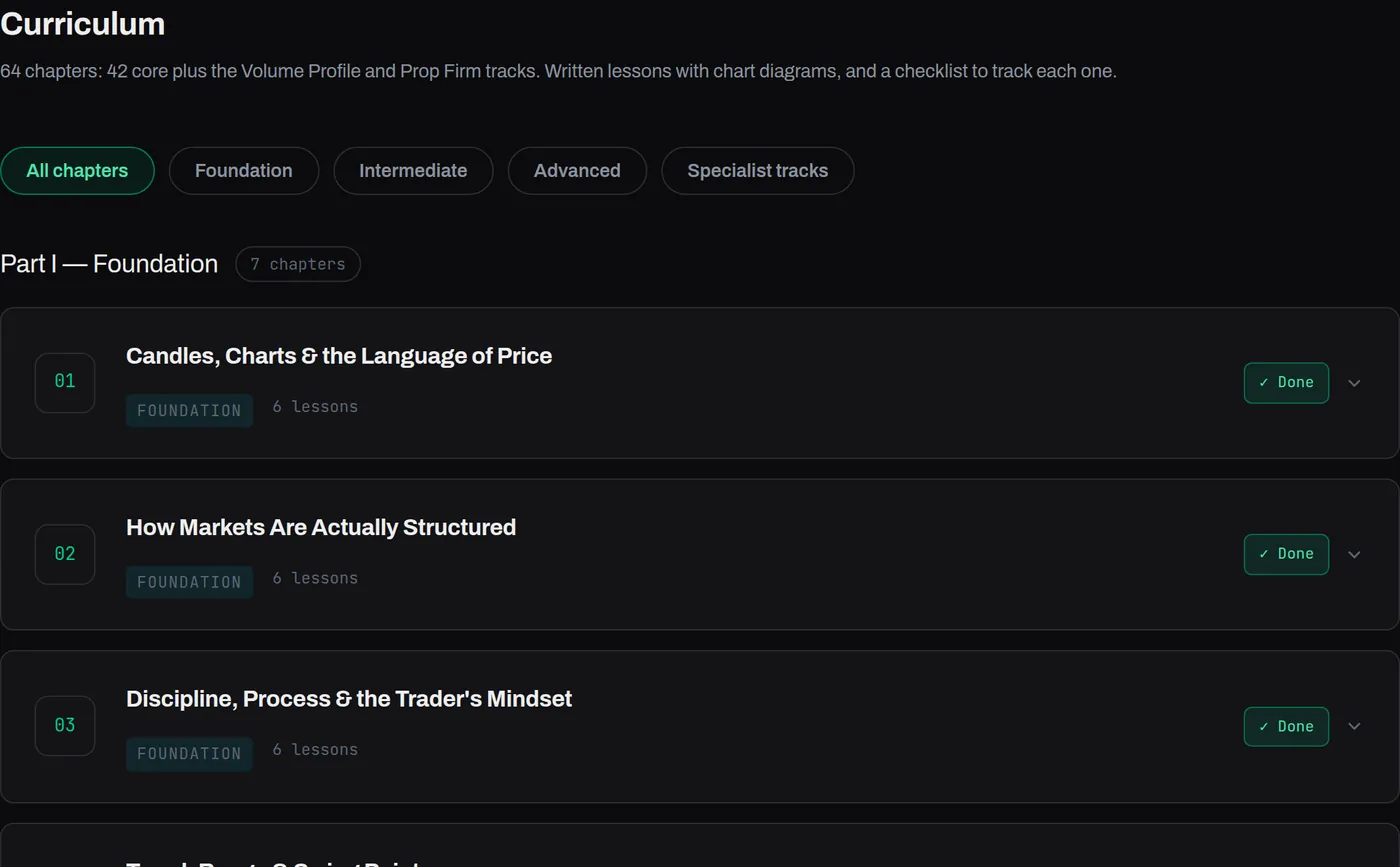
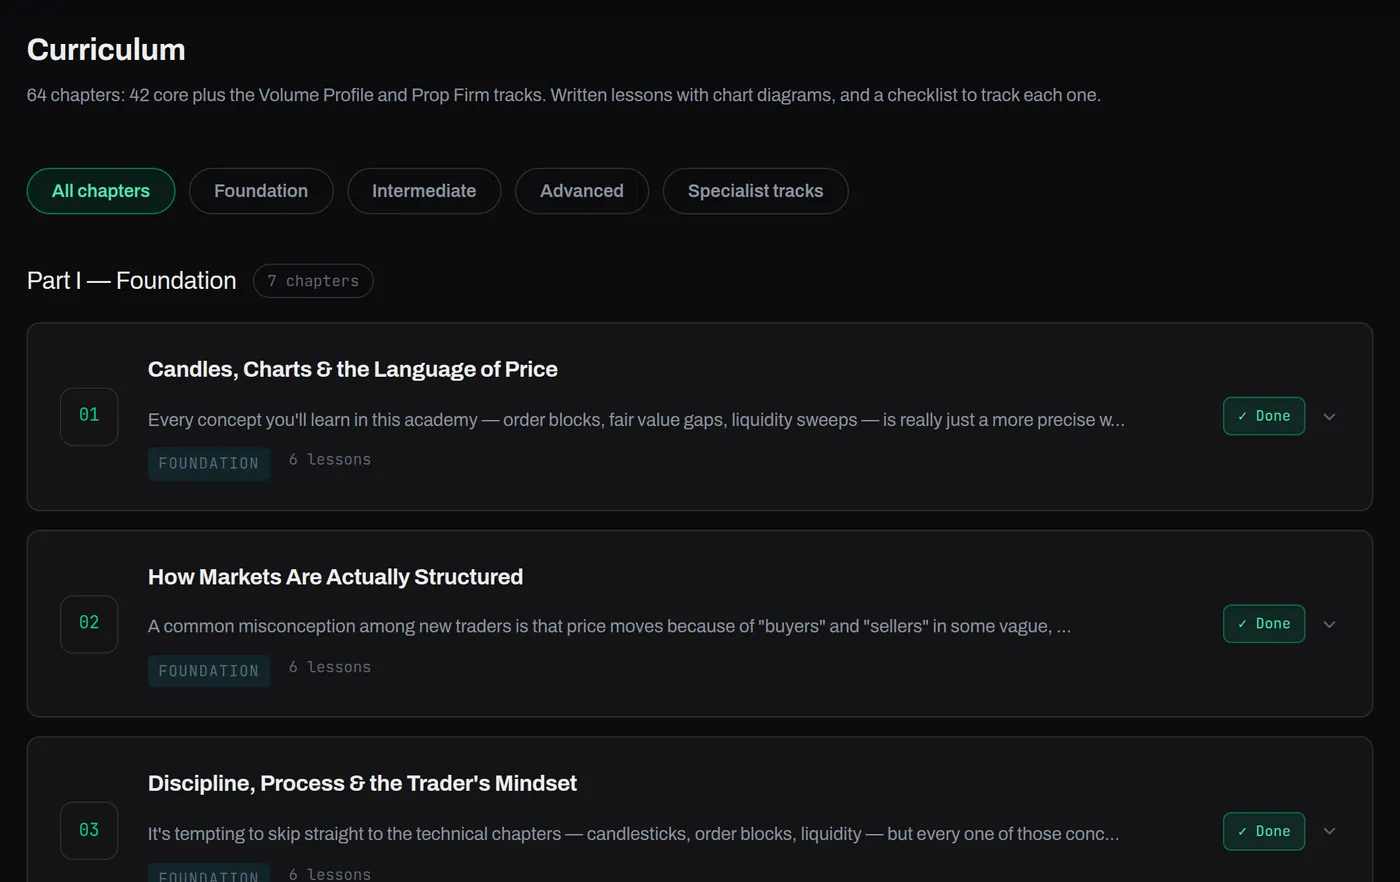
Curriculum + Global Monitor: re-crop captures with app background around content
Hero (1440 + 390), courses, continue, achievements, wire, markets, finmap,
risk and predict are re-captured 20px wider on every side (16px top on
phone) and cut at the next empty background row instead of mid-card.
Overlay boxes remapped from the old crop to the new one (checked: each box
stays on the same element). Reader and mobile kept: already had margins.

diff --git a/features/global-monitor.html b/features/global-monitor.html
@@ -113,7 +113,7 @@
 <figure class="gv-term solo" data-fp-play>
 <div class="gv-term-bar"><span class="gv-dot"></span><b>Global Monitor · Map</b></div>
 <div class="gv-term-body fp-pad">
-<div class="gv-chart"><picture><source media="(max-width:600px)" srcset="/assets/images/global-monitor/hero-390.webp" width="740" height="1000"><img src="/assets/images/global-monitor/hero-1440.webp" width="1400" height="867" fetchpriority="high" decoding="async" alt="The Global Monitor map tab: world map with event markers, event categories, an events list, the most active places and the tension index."></picture></div>
+<div class="gv-chart"><picture><source media="(max-width:600px)" srcset="/assets/images/global-monitor/hero-390.webp" width="740" height="1442"><img src="/assets/images/global-monitor/hero-1440.webp" width="1400" height="882" fetchpriority="high" decoding="async" alt="The Global Monitor map tab: world map with event markers, event categories, an events list, the most active places and the tension index."></picture></div>
 </div>
 <figcaption class="fg-cap">The events map, with most active places and the tension index.</figcaption>
 </figure>
@@ -123,11 +123,11 @@
 </header>
 <div class="container">
 <section class="ft-section sx" id="whats-on-the-page"><div class="ft-section-head ft-reveal"><h2>What’s on the Global Monitor</h2><p>Six tabs on one screen: Markets, Map, Wire, Risk, Briefing (a rule-based summary, not AI) and Streams.</p></div><nav class="sx-index" aria-label="Jump to a feature"><div><a href="#sx-f-wire" data-fp-ix="wire"><em>01</em>The Wire</a><a href="#sx-f-markets" data-fp-ix="markets"><em>02</em>Markets</a><a href="#sx-f-finmap" data-fp-ix="finmap"><em>03</em>Financial map</a><a href="#sx-f-risk" data-fp-ix="risk"><em>04</em>Risk</a><a href="#sx-f-predict" data-fp-ix="predict"><em>05</em>Prediction markets</a></div></nav><div class="sx-rows">
-<article class="sx-row" id="sx-f-wire" data-fp-row="wire"><div class="sx-frame fp-pad"><div class="sx-media" style="aspect-ratio:740/556;--ar:1.3309"><img src="/assets/images/global-monitor/wire.webp" width="740" height="556" loading="lazy" decoding="async" alt="The Wire: a search box, severity filter chips and a list of headlines with country tags and sources."><i class="sx-box" style="--x:1.7%;--y:6.1%;--bw:96.6%;--bh:4.9%;--n:1"></i><i class="sx-box chip" style="--x:1.7%;--y:12.2%;--bw:39.2%;--bh:3.8%;--n:2"></i></div><p class="sx-cap">The Wire headline feed.</p></div><div class="sx-copy"><span class="sx-n">01 / 05</span><h3>The Wire</h3><p class="sx-text">Headlines collected from third-party feeds, searchable by headline, country and source, so the context reaches you without twelve open tabs.</p><details class="sx-how"><summary>How it works</summary><p>Chips filter the feed by severity; the search box matches headlines, countries and sources.</p></details></div></article>
-<article class="sx-row flip" id="sx-f-markets" data-fp-row="markets"><div class="sx-frame fp-pad"><div class="sx-media" style="aspect-ratio:740/585;--ar:1.2650"><img src="/assets/images/global-monitor/markets.webp" width="740" height="585" loading="lazy" decoding="async" alt="Markets tab: risk tone, sector breadth, rotation leader, curve and volatility cards, then indices, futures, safe havens, forex, energy, defense stocks and crypto tables."><i class="sx-box" style="--x:1.7%;--y:5.8%;--bw:96.6%;--bh:17.2%;--n:1"></i></div><p class="sx-cap">Market signals and asset tables.</p></div><div class="sx-copy"><span class="sx-n">02 / 05</span><h3>Markets</h3><p class="sx-text">Market signals, then the instruments that set the tone, grouped on one screen.</p><details class="sx-how"><summary>How it works</summary><p>Risk tone, sector breadth, rotation leader, curve and volatility at the top; indices, futures, safe havens, FX, energy, defense stocks and crypto below. Sector rotation and movers follow.</p></details></div></article>
-<article class="sx-row" id="sx-f-finmap" data-fp-row="finmap"><div class="sx-frame fp-pad"><div class="sx-media" style="aspect-ratio:740/393;--ar:1.8830"><img src="/assets/images/global-monitor/finmap.webp" width="740" height="393" loading="lazy" decoding="async" alt="Financial map: a world map with gold rings on central banks and dots for market-stress stories."><i class="sx-scan"></i></div><p class="sx-cap">Financial map.</p></div><div class="sx-copy"><span class="sx-n">03 / 05</span><h3>Financial map</h3><p class="sx-text">Monetary policy and market-stress stories by country, with central banks marked, plus a financial newswire filtered by severity.</p><details class="sx-how"><summary>How it works</summary><p>Hover a central bank for its next high-impact release; hover a dot for the stories behind it.</p></details></div></article>
-<article class="sx-row flip" id="sx-f-risk" data-fp-row="risk"><div class="sx-frame fp-pad"><div class="sx-media" style="aspect-ratio:740/479;--ar:1.5449"><img src="/assets/images/global-monitor/risk.webp" width="740" height="479" loading="lazy" decoding="async" alt="Risk tab: DEFCON status with its five levels and a disease outbreaks list."><i class="sx-box" style="--x:1.7%;--y:59.2%;--bw:45.9%;--bh:9.8%;--n:1"></i></div><p class="sx-cap">DEFCON status and disease outbreaks.</p></div><div class="sx-copy"><span class="sx-n">04 / 05</span><h3>Risk</h3><p class="sx-text">DEFCON status, labelled on the page as a third-party estimate, beside disease outbreaks ranked by severity from WHO Disease Outbreak News.</p><details class="sx-how"><summary>How it works</summary><p>The page names the source under each panel.</p></details></div></article>
-<article class="sx-row" id="sx-f-predict" data-fp-row="predict"><div class="sx-frame fp-pad"><div class="sx-media" style="aspect-ratio:740/979;--ar:0.7559"><img src="/assets/images/global-monitor/predict.webp" width="740" height="979" loading="lazy" decoding="async" alt="Trending prediction markets with a search box, each market listing its outcomes."><i class="sx-box" style="--x:3.4%;--y:10.8%;--bw:93.2%;--bh:5.6%;--n:1"></i></div><p class="sx-cap">Prediction markets.</p></div><div class="sx-copy"><span class="sx-n">05 / 05</span><h3>Prediction markets</h3><p class="sx-text">Trending prediction markets, searchable, as another read on what the crowd is weighing. Prices are the crowd’s odds, not forecasts.</p><details class="sx-how"><summary>How it works</summary><p>Ranked by 24h volume, via Polymarket. Shown for context only; not a forecast.</p></details></div></article>
+<article class="sx-row" id="sx-f-wire" data-fp-row="wire"><div class="sx-frame fp-pad"><div class="sx-media" style="aspect-ratio:740/563;--ar:1.3144"><img src="/assets/images/global-monitor/wire.webp" width="740" height="563" loading="lazy" decoding="async" alt="The Wire: a search box, severity filter chips and a list of headlines with country tags and sources."><i class="sx-box" style="--x:3.5%;--y:8.3%;--bw:92.9%;--bh:4.7%;--n:1"></i><i class="sx-box chip" style="--x:3.5%;--y:14.1%;--bw:37.7%;--bh:3.6%;--n:2"></i></div><p class="sx-cap">The Wire headline feed.</p></div><div class="sx-copy"><span class="sx-n">01 / 05</span><h3>The Wire</h3><p class="sx-text">Headlines collected from third-party feeds, searchable by headline, country and source, so the context reaches you without twelve open tabs.</p><details class="sx-how"><summary>How it works</summary><p>Chips filter the feed by severity; the search box matches headlines, countries and sources.</p></details></div></article>
+<article class="sx-row flip" id="sx-f-markets" data-fp-row="markets"><div class="sx-frame fp-pad"><div class="sx-media" style="aspect-ratio:740/584;--ar:1.2671"><img src="/assets/images/global-monitor/markets.webp" width="740" height="584" loading="lazy" decoding="async" alt="Markets tab: risk tone, sector breadth, rotation leader, curve and volatility cards, then indices, futures, safe havens, forex, energy, defense stocks and crypto tables."><i class="sx-box" style="--x:3.5%;--y:8.0%;--bw:92.9%;--bh:16.6%;--n:1"></i></div><p class="sx-cap">Market signals and asset tables.</p></div><div class="sx-copy"><span class="sx-n">02 / 05</span><h3>Markets</h3><p class="sx-text">Market signals, then the instruments that set the tone, grouped on one screen.</p><details class="sx-how"><summary>How it works</summary><p>Risk tone, sector breadth, rotation leader, curve and volatility at the top; indices, futures, safe havens, FX, energy, defense stocks and crypto below. Sector rotation and movers follow.</p></details></div></article>
+<article class="sx-row" id="sx-f-finmap" data-fp-row="finmap"><div class="sx-frame fp-pad"><div class="sx-media" style="aspect-ratio:740/404;--ar:1.8317"><img src="/assets/images/global-monitor/finmap.webp" width="740" height="404" loading="lazy" decoding="async" alt="Financial map: a world map with gold rings on central banks and dots for market-stress stories."><i class="sx-scan"></i></div><p class="sx-cap">Financial map.</p></div><div class="sx-copy"><span class="sx-n">03 / 05</span><h3>Financial map</h3><p class="sx-text">Monetary policy and market-stress stories by country, with central banks marked, plus a financial newswire filtered by severity.</p><details class="sx-how"><summary>How it works</summary><p>Hover a central bank for its next high-impact release; hover a dot for the stories behind it.</p></details></div></article>
+<article class="sx-row flip" id="sx-f-risk" data-fp-row="risk"><div class="sx-frame fp-pad"><div class="sx-media" style="aspect-ratio:740/482;--ar:1.5353"><img src="/assets/images/global-monitor/risk.webp" width="740" height="482" loading="lazy" decoding="async" alt="Risk tab: DEFCON status with its five levels and a disease outbreaks list."><i class="sx-box" style="--x:3.5%;--y:59.5%;--bw:44.2%;--bh:9.4%;--n:1"></i></div><p class="sx-cap">DEFCON status and disease outbreaks.</p></div><div class="sx-copy"><span class="sx-n">04 / 05</span><h3>Risk</h3><p class="sx-text">DEFCON status, labelled on the page as a third-party estimate, beside disease outbreaks ranked by severity from WHO Disease Outbreak News.</p><details class="sx-how"><summary>How it works</summary><p>The page names the source under each panel.</p></details></div></article>
+<article class="sx-row" id="sx-f-predict" data-fp-row="predict"><div class="sx-frame fp-pad"><div class="sx-media" style="aspect-ratio:740/956;--ar:0.7741"><img src="/assets/images/global-monitor/predict.webp" width="740" height="956" loading="lazy" decoding="async" alt="Trending prediction markets with a search box, each market listing its outcomes."><i class="sx-box" style="--x:6.9%;--y:13.1%;--bw:86.3%;--bh:5.3%;--n:1"></i></div><p class="sx-cap">Prediction markets.</p></div><div class="sx-copy"><span class="sx-n">05 / 05</span><h3>Prediction markets</h3><p class="sx-text">Trending prediction markets, searchable, as another read on what the crowd is weighing. Prices are the crowd’s odds, not forecasts.</p><details class="sx-how"><summary>How it works</summary><p>Ranked by 24h volume, via Polymarket. Shown for context only; not a forecast.</p></details></div></article>
 </div></section>
 
 <section class="ft-section" id="routine">

diff --git a/features/curriculum.html b/features/curriculum.html
@@ -113,7 +113,7 @@
 <figure class="gv-term solo" data-fp-play>
 <div class="gv-term-bar"><span class="gv-dot"></span><b>Courses · Curriculum</b></div>
 <div class="gv-term-body fp-pad">
-<div class="gv-chart"><picture><source media="(max-width:600px)" srcset="/assets/images/curriculum/hero-390.webp" width="740" height="1000"><img src="/assets/images/curriculum/hero-1440.webp" width="1400" height="867" fetchpriority="high" decoding="async" alt="The Stryker courses page: level filters and the first Foundation chapters in order."></picture></div>
+<div class="gv-chart"><picture><source media="(max-width:600px)" srcset="/assets/images/curriculum/hero-390.webp" width="740" height="1442"><img src="/assets/images/curriculum/hero-1440.webp" width="1400" height="882" fetchpriority="high" decoding="async" alt="The Stryker courses page: level filters and the first Foundation chapters in order."></picture></div>
 </div>
 <figcaption class="fg-cap">The courses page, shown on a demo account.</figcaption>
 </figure>
@@ -123,10 +123,10 @@
 </header>
 <div class="container">
 <section class="ft-section sx" id="whats-on-the-page"><div class="ft-section-head ft-reveal"><h2>Inside the curriculum</h2><p>Chapters are ordered and tracked. The platform knows what you have finished and what to open next.</p></div><nav class="sx-index" aria-label="Jump to a feature"><div><a href="#sx-f-order" data-fp-ix="order"><em>01</em>Ordered chapters</a><a href="#sx-f-read" data-fp-ix="read"><em>02</em>Chapter reader</a><a href="#sx-f-progress" data-fp-ix="progress"><em>03</em>Progress</a><a href="#sx-f-badges" data-fp-ix="badges"><em>04</em>Achievements</a><a href="#sx-f-mobile" data-fp-ix="mobile"><em>05</em>Mobile</a></div></nav><div class="sx-rows">
-<article class="sx-row" id="sx-f-order" data-fp-row="order"><div class="sx-frame fp-pad"><div class="sx-media" style="aspect-ratio:740/600;--ar:1.2333"><img src="/assets/images/curriculum/courses.webp" width="740" height="600" loading="lazy" decoding="async" alt="Part II of the courses page: Intermediate chapters 08 to 13 listed in order, from Market Structure to Killzones."><i class="sx-box" style="--x:0.3%;--y:6.7%;--bw:99.4%;--bh:13.4%;--n:1"></i></div><p class="sx-cap">Intermediate chapters, in order.</p></div><div class="sx-copy"><span class="sx-n">01 / 05</span><h3>Ordered chapters</h3><p class="sx-text">Concepts build in sequence: liquidity before displacement, displacement before entries. Each chapter is written to build on the ones before it.</p><details class="sx-how"><summary>How it works</summary><p>Three levels (Foundation, Intermediate, Advanced) taken in order, plus specialist tracks. Every chapter is listed on the courses page.</p></details></div></article>
+<article class="sx-row" id="sx-f-order" data-fp-row="order"><div class="sx-frame fp-pad"><div class="sx-media" style="aspect-ratio:740/602;--ar:1.2292"><img src="/assets/images/curriculum/courses.webp" width="740" height="602" loading="lazy" decoding="async" alt="Part II of the courses page: Intermediate chapters 08 to 13 listed in order, from Market Structure to Killzones."><i class="sx-box" style="--x:2.2%;--y:8.8%;--bw:95.6%;--bh:12.8%;--n:1"></i></div><p class="sx-cap">Intermediate chapters, in order.</p></div><div class="sx-copy"><span class="sx-n">01 / 05</span><h3>Ordered chapters</h3><p class="sx-text">Concepts build in sequence: liquidity before displacement, displacement before entries. Each chapter is written to build on the ones before it.</p><details class="sx-how"><summary>How it works</summary><p>Three levels (Foundation, Intermediate, Advanced) taken in order, plus specialist tracks. Every chapter is listed on the courses page.</p></details></div></article>
 <article class="sx-row flip" id="sx-f-read" data-fp-row="read"><div class="sx-frame fp-pad"><div class="sx-media" style="aspect-ratio:740/774;--ar:0.9561"><img src="/assets/images/curriculum/reader.webp" width="740" height="774" loading="lazy" decoding="async" alt="Chapter 01 open in the reader: the chapter introduction, the Anatomy of a candlestick lesson and a candle diagram."><i class="sx-box" style="--x:2.3%;--y:27.4%;--bw:33%;--bh:3.6%;--n:1"></i><i class="sx-box" style="--x:2.3%;--y:47.4%;--bw:95.4%;--bh:52%;--n:2"></i></div><p class="sx-cap">Chapter 01 in the reader.</p></div><div class="sx-copy"><span class="sx-n">02 / 05</span><h3>Read a chapter</h3><p class="sx-text">Written lessons with chart diagrams. Each chapter ends where the next begins: liquidity, fair value gaps, order blocks, premium and discount, SMT divergence, killzones, session timing, Power of Three, and entry models that combine every prior concept.</p><details class="sx-how"><summary>How it works</summary><p>The curriculum is one connected framework for reading price action, not a playlist.</p></details></div></article>
-<article class="sx-row" id="sx-f-progress" data-fp-row="progress"><div class="sx-frame fp-pad"><div class="sx-media" style="aspect-ratio:740/440;--ar:1.6818"><img src="/assets/images/curriculum/continue.webp" width="740" height="440" loading="lazy" decoding="async" alt="The dashboard Continue learning panel with a Resume button on the next chapter and Review on finished ones."><i class="sx-box" style="--x:3%;--y:23.6%;--bw:94%;--bh:16.4%;--n:1"></i></div><p class="sx-cap">Continue learning, shown on a demo account.</p></div><div class="sx-copy"><span class="sx-n">03 / 05</span><h3>Progress tracking</h3><p class="sx-text">Every chapter you complete is saved to your account. The dashboard shows where you stopped, and one click resumes it.</p><details class="sx-how"><summary>How it works</summary><p>Per-chapter completion is stored on your account and shown on the dashboard, the courses page and achievements.</p></details></div></article>
-<article class="sx-row flip" id="sx-f-badges" data-fp-row="badges"><div class="sx-frame fp-pad"><div class="sx-media" style="aspect-ratio:740/482;--ar:1.5353"><img src="/assets/images/curriculum/achievements.webp" width="740" height="482" loading="lazy" decoding="async" alt="The achievements page: curriculum and lesson badges, some unlocked and some locked."><i class="sx-box" style="--x:1%;--y:6.4%;--bw:48.6%;--bh:9.2%;--n:1"></i></div><p class="sx-cap">Milestone badges, shown on a demo account.</p></div><div class="sx-copy"><span class="sx-n">04 / 05</span><h3>Achievements</h3><p class="sx-text">Milestones unlock badges as you move through the curriculum and use the platform, visible on your profile.</p><details class="sx-how"><summary>How it works</summary><p>Badges are awarded for milestones as your progress is saved.</p></details></div></article>
+<article class="sx-row" id="sx-f-progress" data-fp-row="progress"><div class="sx-frame fp-pad"><div class="sx-media" style="aspect-ratio:740/454;--ar:1.6300"><img src="/assets/images/curriculum/continue.webp" width="740" height="454" loading="lazy" decoding="async" alt="The dashboard Continue learning panel with a Resume button on the next chapter and Review on finished ones."><i class="sx-box" style="--x:5.9%;--y:26.5%;--bw:88.2%;--bh:14.9%;--n:1"></i></div><p class="sx-cap">Continue learning, shown on a demo account.</p></div><div class="sx-copy"><span class="sx-n">03 / 05</span><h3>Progress tracking</h3><p class="sx-text">Every chapter you complete is saved to your account. The dashboard shows where you stopped, and one click resumes it.</p><details class="sx-how"><summary>How it works</summary><p>Per-chapter completion is stored on your account and shown on the dashboard, the courses page and achievements.</p></details></div></article>
+<article class="sx-row flip" id="sx-f-badges" data-fp-row="badges"><div class="sx-frame fp-pad"><div class="sx-media" style="aspect-ratio:740/489;--ar:1.5133"><img src="/assets/images/curriculum/achievements.webp" width="740" height="489" loading="lazy" decoding="async" alt="The achievements page: curriculum and lesson badges, some unlocked and some locked."><i class="sx-box" style="--x:2.9%;--y:9.0%;--bw:46.7%;--bh:8.7%;--n:1"></i></div><p class="sx-cap">Milestone badges, shown on a demo account.</p></div><div class="sx-copy"><span class="sx-n">04 / 05</span><h3>Achievements</h3><p class="sx-text">Milestones unlock badges as you move through the curriculum and use the platform, visible on your profile.</p><details class="sx-how"><summary>How it works</summary><p>Badges are awarded for milestones as your progress is saved.</p></details></div></article>
 <article class="sx-row" id="sx-f-mobile" data-fp-row="mobile"><div class="sx-frame fp-pad"><div class="sx-media" style="aspect-ratio:740/1000;--ar:0.7400"><img src="/assets/images/curriculum/mobile.webp" width="740" height="1000" loading="lazy" decoding="async" alt="Chapter 01 in the reader on a phone screen."><i class="sx-scan"></i></div><p class="sx-cap">The reader on a phone.</p></div><div class="sx-copy"><span class="sx-n">05 / 05</span><h3>Learn anywhere</h3><p class="sx-text">The whole curriculum works on mobile: same account, same progress, phone or desktop.</p><details class="sx-how"><summary>How it works</summary><p>Progress syncs to your account, so you can pick up on your phone where you stopped on desktop.</p></details></div></article>
 </div></section>
 
